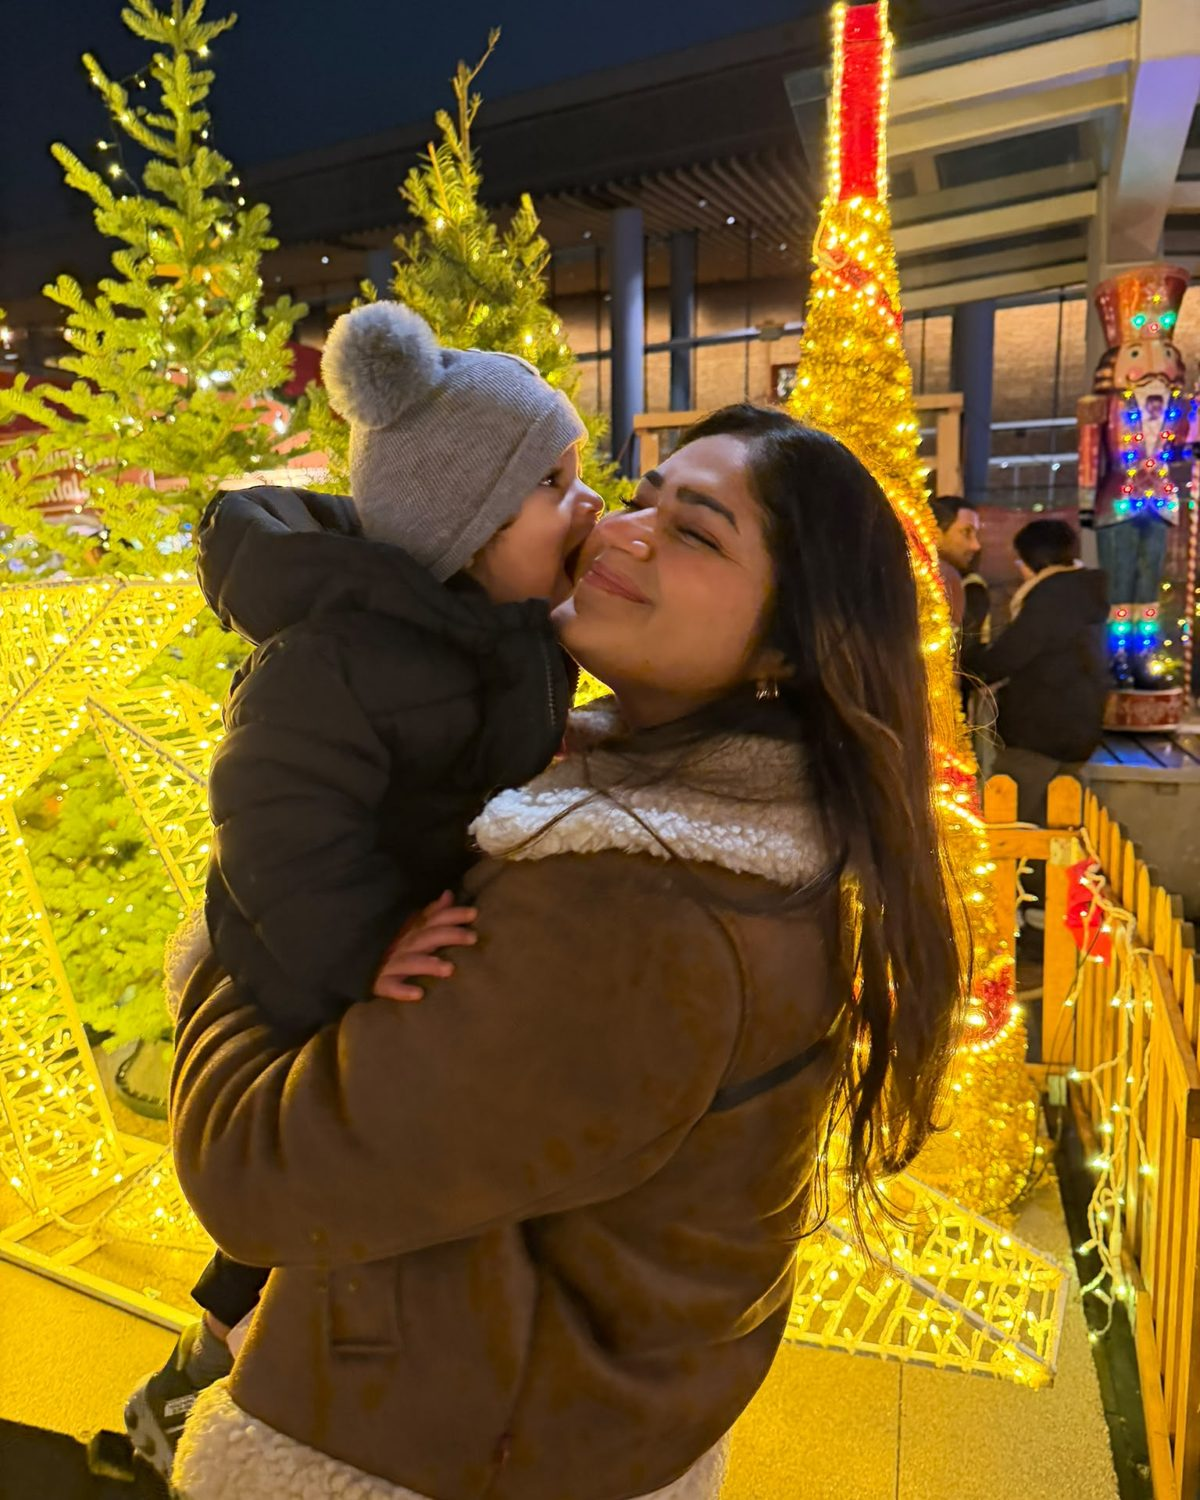
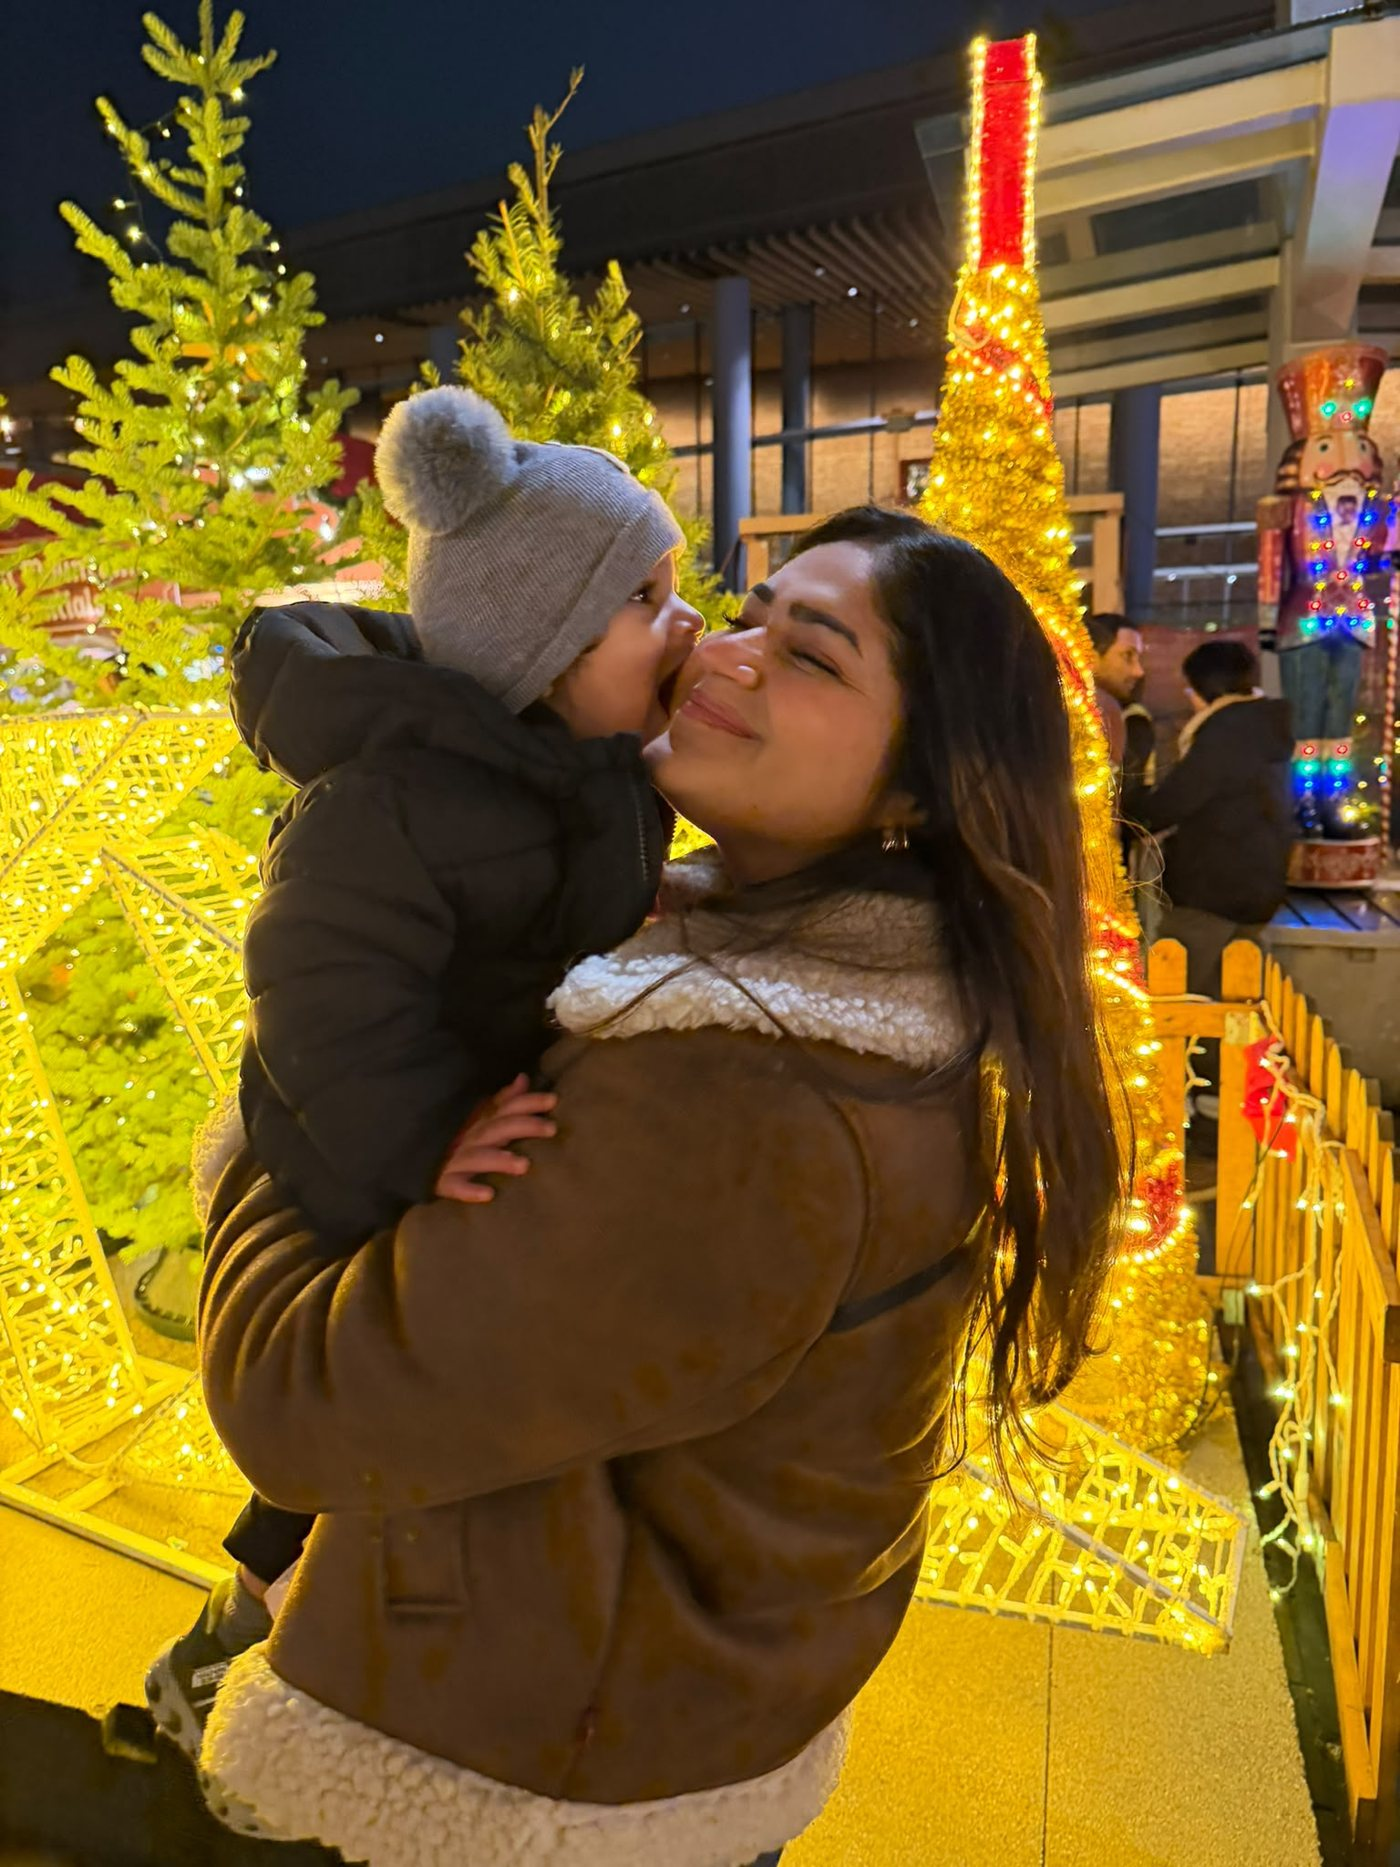
Restore red-jacket hero uncropped; keep heads and hair in frame on all photos
Claude-Session: https://claude.ai/code/session_01GpAf4VGoey6JXcBGA7zdoU

diff --git a/assets/site.css b/assets/site.css
@@ -262,3 +262,12 @@ section{padding:110px 0}
 .b-card p{margin:0;color:var(--muted);font-size:.98rem}
 .b-card:hover h3{text-decoration:underline}
 @media (max-width:900px){.contact-grid{grid-template-columns:1fr;gap:40px}}
+/* Never crop heads: anchor all photo crops to the top */
+.photo img,.gallery img,.mini-gal img,.b-card img,.post-img img,.portrait img{object-position:center top}
+.post-img img{max-height:none}
+.gallery img[src*="seattle-lift"]{object-position:center 85%}
+.gallery img[src*="statue-of-liberty"]{object-position:center 92%}
+.gallery img[src*="couple-mountains"]{object-position:center 78%}
+.gallery img[src*="family-beach"]{object-position:center 65%}
+.gallery img[src*="brooklyn-bridge"]{object-position:center 60%}
+.gallery img[src*="newborn-forest"]{object-position:center 35%}
